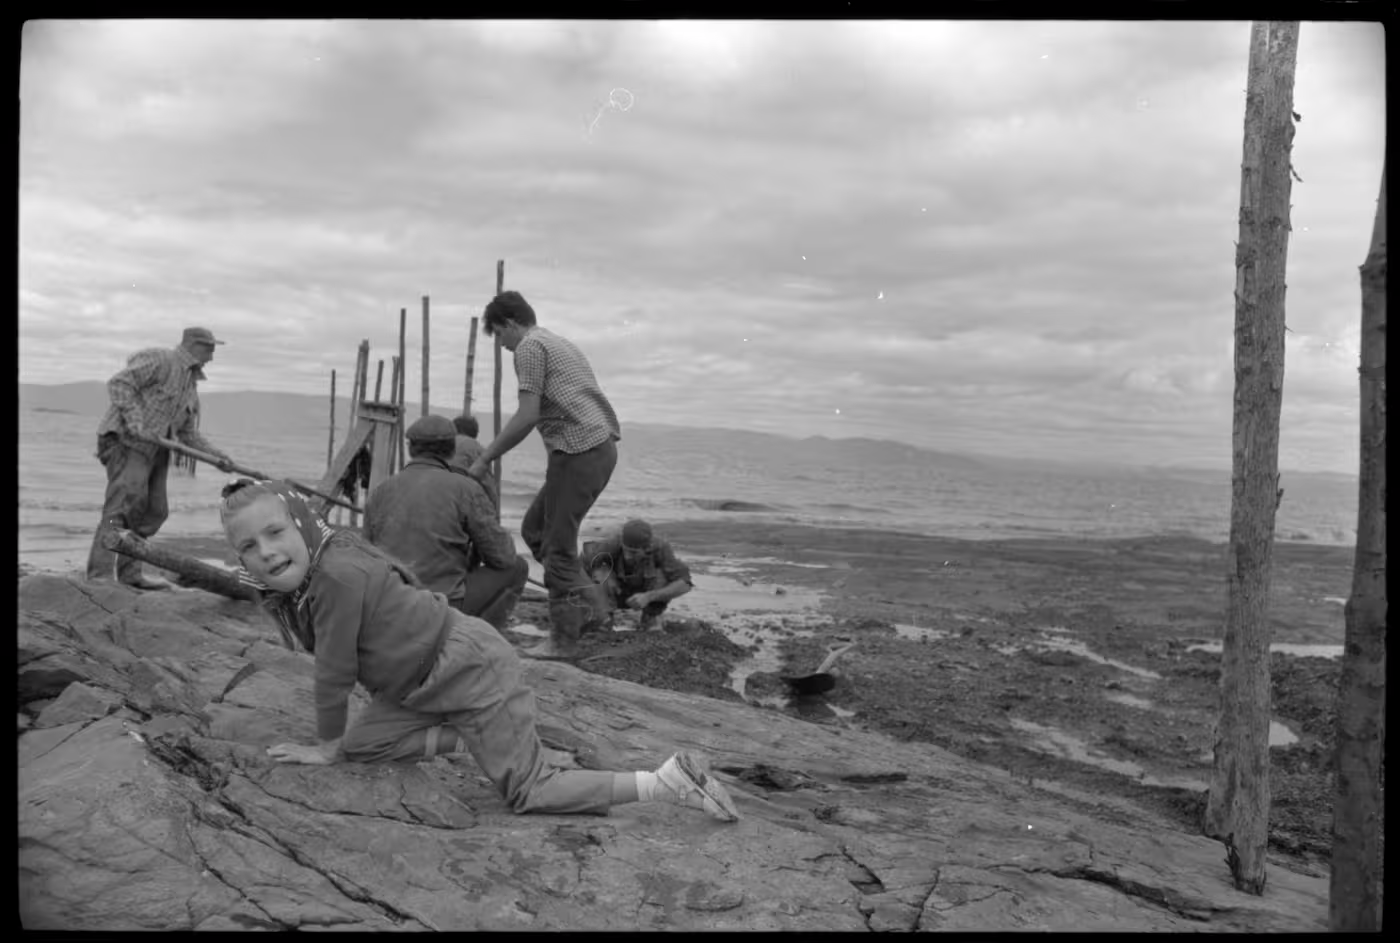
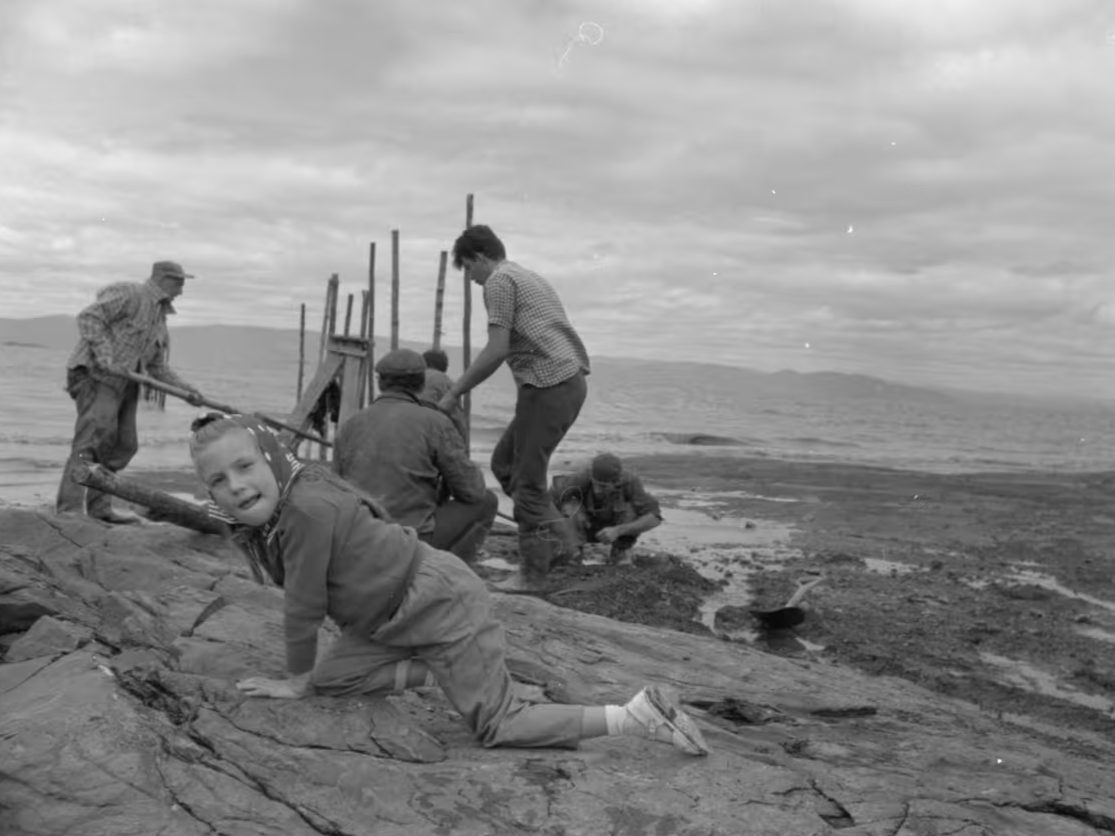
Nav et index ajusté

diff --git a/mini-jeu.html b/mini-jeu.html
@@ -1,99 +1,123 @@
 <!doctype html>
 <html lang="fr">
-	<head>
-		<meta charset="UTF-8" />
-		<meta name="viewport" content="width=device-width, initial-scale=1.0" />
-		<title>Plongée dans le Saint-Laurent - Musée des pêches et de la mer</title>
-		<link rel="stylesheet" href="style.css" />
-		<link rel="icon" type="image/png" href="./favicon3.png" />
-		<script src="./assets/scripts/script.js" defer></script>
-		<script src="./assets/scripts/minigame.js" defer></script>
-	</head>
+  <head>
+    <meta charset="UTF-8" />
+    <meta name="viewport" content="width=device-width, initial-scale=1.0" />
+    <title>Plongée dans le Saint-Laurent - Musée des pêches et de la mer</title>
+    <link rel="stylesheet" href="style.css" />
+    <link rel="icon" type="image/png" href="./favicon3.png" />
+    <script src="./assets/scripts/script.js" defer></script>
+    <script src="./assets/scripts/minigame.js" defer></script>
+  </head>
 
-	<body class="game-page">
-		<div class="drawer" id="drawer">
-			<a class="drawer-link" href="index.html " onclick="closeDrawer()"
-				>Accueil</a
-			>
-			<a class="drawer-link" href="reservation.html" onclick="closeDrawer()"
-				>Réservation</a
-			>
-			<a class="drawer-link" href="information.html" onclick="closeDrawer()"
-				>Information</a
-			>
-			<a class="drawer-link" href="mini-jeu.html" onclick="closeDrawer()"
-				>Jeu</a
-			>
-		</div>
+  <body class="game-page">
+    <div class="drawer" id="drawer">
+      <a class="drawer-link" href="index.html " onclick="closeDrawer()"
+        >Accueil</a
+      >
+      <a class="drawer-link" href="reservation.html" onclick="closeDrawer()"
+        >Réservation</a
+      >
+      <a class="drawer-link" href="information.html" onclick="closeDrawer()"
+        >Information</a
+      >
+      <a class="drawer-link" href="mini-jeu.html" onclick="closeDrawer()"
+        >Espace enfant</a
+      >
+    </div>
 
-		<nav class="site-nav" aria-label="Navigation principale">
-			<div>
-				<a href="index.html">
-					<img src="favicon.png" alt="Musée des pêches et de la mer, accueil" />
-				</a>
-			</div>
-			<div class="nav-links">
-				<a class="nav-link" href="index.html">Accueil</a>
-				<a class="nav-link" href="reservation.html">Réservation</a>
-				<a class="nav-link" href="information.html">Information</a>
-				<a class="nav-link" href="mini-jeu.html">Jeu</a>
-			</div>
-			<button
-				class="burger"
-				id="burger"
-				type="button"
-				aria-label="Ouvrir le menu"
-				aria-expanded="false"
-			>
-				<span></span><span></span><span></span>
-			</button>
-		</nav>
+    <nav class="site-nav" aria-label="Navigation principale">
+      <div>
+        <a href="index.html">
+          <img src="favicon.png" alt="Musée des pêches et de la mer, accueil" />
+        </a>
+      </div>
+      <div class="nav-links">
+        <a class="nav-link" href="index.html">Accueil</a>
+        <a class="nav-link" href="reservation.html">Réservation</a>
+        <a class="nav-link" href="information.html">Information</a>
+        <a class="nav-link" href="mini-jeu.html">Espace enfant</a>
+      </div>
+      <button
+        class="burger"
+        id="burger"
+        type="button"
+        aria-label="Ouvrir le menu"
+        aria-expanded="false"
+      >
+        <span></span><span></span><span></span>
+      </button>
+    </nav>
 
-		<header class="site-header dive-header">
-			<div class="dive-world">
-				<div class="dive-bubbles" id="diveBubbles" aria-hidden="true"></div>
-				<div class="dive-floor" aria-hidden="true"></div>
-				<div class="photo-frame" id="photoFrame" aria-hidden="true"></div>
-				<div class="dive-field" id="diveField" tabindex="-1">
-					<div class="diver" id="diver">
-						<img src="./assets/images/jeu/diver1.png" data-frame="0" alt="Plongeur" draggable="false" />
-					</div>
-				</div>
-				<div class="dive-controls" aria-label="Commandes de déplacement">
-					<button type="button" data-direction="up" aria-label="Haut">↑</button>
-					<div>
-						<button type="button" data-direction="left" aria-label="Gauche">←</button>
-						<button type="button" data-direction="down" aria-label="Bas">↓</button>
-						<button type="button" data-direction="right" aria-label="Droite">→</button>
-					</div>
-				</div>
-				<p class="photo-instruction">Espace pour prendre en photo</p>
-			</div>
-		</header>
+    <header class="site-header dive-header">
+      <div class="dive-world">
+        <div class="dive-bubbles" id="diveBubbles" aria-hidden="true"></div>
+        <div class="dive-floor" aria-hidden="true"></div>
+        <div class="photo-frame" id="photoFrame" aria-hidden="true"></div>
+        <div class="dive-field" id="diveField" tabindex="-1">
+          <div class="diver" id="diver">
+            <img
+              src="./assets/images/jeu/diver1.png"
+              data-frame="0"
+              alt="Plongeur"
+              draggable="false"
+            />
+          </div>
+        </div>
+        <div class="dive-controls" aria-label="Commandes de déplacement">
+          <button type="button" data-direction="up" aria-label="Haut">↑</button>
+          <div>
+            <button type="button" data-direction="left" aria-label="Gauche">
+              ←
+            </button>
+            <button type="button" data-direction="down" aria-label="Bas">
+              ↓
+            </button>
+            <button type="button" data-direction="right" aria-label="Droite">
+              →
+            </button>
+          </div>
+        </div>
+        <p class="photo-instruction">Espace pour prendre en photo</p>
+      </div>
+    </header>
 
-		<footer>
-			Musée de la pêche et de la mer, Contact info@museedespeches.ca | (418)
-			555-2025
-		</footer>
-		<div class="photo-flash" id="photoFlash" aria-hidden="true"></div>
-		<div class="photo-modal" id="photoModal" aria-hidden="true">
-			<div class="photo-modal-backdrop" data-photo-close></div>
-			<section class="photo-modal-panel" role="dialog" aria-modal="true" aria-labelledby="photoTitle" aria-describedby="photoDescription">
-				<div class="photo-modal-visual">
-					<img class="photo-modal-image" id="photoImage" alt="" />
-					<span class="photo-modal-location">GOLFE DU SAINT-LAURENT</span>
-				</div>
-				<div class="photo-modal-copy">
-					<header class="photo-modal-heading">
-						<div>
-							<p class="photo-modal-kicker">RENCONTRE MARINE</p>
-							<h2 id="photoTitle"></h2>
-						</div>
-						<button class="photo-modal-close" type="button" aria-label="Fermer la photo" data-photo-close>&times;</button>
-					</header>
-					<p class="photo-modal-description" id="photoDescription"></p>
-				</div>
-			</section>
-		</div>
-	</body>
+    <footer>
+      Musée de la pêche et de la mer, Contact info@museedespeches.ca | (418)
+      555-2025
+    </footer>
+    <div class="photo-flash" id="photoFlash" aria-hidden="true"></div>
+    <div class="photo-modal" id="photoModal" aria-hidden="true">
+      <div class="photo-modal-backdrop" data-photo-close></div>
+      <section
+        class="photo-modal-panel"
+        role="dialog"
+        aria-modal="true"
+        aria-labelledby="photoTitle"
+        aria-describedby="photoDescription"
+      >
+        <div class="photo-modal-visual">
+          <img class="photo-modal-image" id="photoImage" alt="" />
+          <span class="photo-modal-location">GOLFE DU SAINT-LAURENT</span>
+        </div>
+        <div class="photo-modal-copy">
+          <header class="photo-modal-heading">
+            <div>
+              <p class="photo-modal-kicker">RENCONTRE MARINE</p>
+              <h2 id="photoTitle"></h2>
+            </div>
+            <button
+              class="photo-modal-close"
+              type="button"
+              aria-label="Fermer la photo"
+              data-photo-close
+            >
+              &times;
+            </button>
+          </header>
+          <p class="photo-modal-description" id="photoDescription"></p>
+        </div>
+      </section>
+    </div>
+  </body>
 </html>

diff --git a/index.html b/index.html
@@ -21,7 +21,7 @@
         >Information</a
       >
       <a class="drawer-link" href="mini-jeu.html" onclick="closeDrawer()"
-        >Jeu</a
+        >Espace enfant</a
       >
     </div>
 
@@ -78,6 +78,40 @@
           climatiques sur le golfe du Saint-Laurent.
         </p>
         <a class="cta" href="reservation.html">Planifier votre visite</a>
+      </section>
+
+      <section id="evenements">
+        <p class="contour"></p>
+        <h2>Événements</h2>
+        <div class="events">
+          <article class="event">
+            <img
+              src="./assets/images-client/nuit-des-pecheurs.jpg"
+              alt="Quai éclairé la nuit"
+              loading="lazy"
+              decoding="async"
+            />
+            <h3>Nuit des pêcheurs</h3>
+            <p>
+              Chaque été, une soirée unique avec contes traditionnels,
+              dégustations de produits de la mer et animations sur le quai.
+            </p>
+          </article>
+          <article class="event">
+            <img
+              src="./assets/images-client/festival-des-oceans.jpg"
+              alt="Foule au Festival des océans"
+              loading="lazy"
+              decoding="async"
+            />
+            <h3>Festival des océans</h3>
+            <p>
+              Un week-end festif réunissant conférences, films documentaires,
+              animations pour enfants et dégustations, célébrant le patrimoine
+              maritime gaspésien.
+            </p>
+          </article>
+        </div>
       </section>
 
       <section id="expositions">
@@ -144,40 +178,6 @@
             <a class="more" href="#" data-expo="tresors">En savoir plus</a>
           </div>
         </article>
-      </section>
-
-      <section id="evenements">
-        <p class="contour"></p>
-        <h2>Événements</h2>
-        <div class="events">
-          <article class="event">
-            <img
-              src="./assets/images-client/nuit-des-pecheurs.jpg"
-              alt="Quai éclairé la nuit"
-              loading="lazy"
-              decoding="async"
-            />
-            <h3>Nuit des pêcheurs</h3>
-            <p>
-              Chaque été, une soirée unique avec contes traditionnels,
-              dégustations de produits de la mer et animations sur le quai.
-            </p>
-          </article>
-          <article class="event">
-            <img
-              src="./assets/images-client/festival-des-oceans.jpg"
-              alt="Foule au Festival des océans"
-              loading="lazy"
-              decoding="async"
-            />
-            <h3>Festival des océans</h3>
-            <p>
-              Un week-end festif réunissant conférences, films documentaires,
-              animations pour enfants et dégustations, célébrant le patrimoine
-              maritime gaspésien.
-            </p>
-          </article>
-        </div>
       </section>
 
       <section class="closing">

diff --git a/information.html b/information.html
@@ -21,7 +21,7 @@
         >Information</a
       >
       <a class="drawer-link" href="mini-jeu.html" onclick="closeDrawer()"
-        >Jeu</a
+        >Espace enfant</a
       >
     </div>
 
@@ -35,7 +35,7 @@
         <a class="nav-link" href="index.html">Accueil</a>
         <a class="nav-link" href="reservation.html">Réservation</a>
         <a class="nav-link" href="information.html">Information</a>
-        <a class="nav-link" href="mini-jeu.html">Jeu</a>
+        <a class="nav-link" href="mini-jeu.html">Espace enfant</a>
       </div>
       <button
         class="burger"

diff --git a/reservation.html b/reservation.html
@@ -22,7 +22,7 @@
         >Information</a
       >
       <a class="drawer-link" href="mini-jeu.html" onclick="closeDrawer()"
-        >Jeu</a
+        >Espace enfant</a
       >
     </div>
 
@@ -36,7 +36,7 @@
         <a class="nav-link" href="index.html">Accueil</a>
         <a class="nav-link" href="reservation.html">Réservation</a>
         <a class="nav-link" href="information.html">Information</a>
-        <a class="nav-link" href="mini-jeu.html">Jeu</a>
+        <a class="nav-link" href="mini-jeu.html">Espace enfant</a>
       </div>
       <button
         class="burger"

diff --git a/assets/styles/style.css b/assets/styles/style.css
@@ -2489,7 +2489,7 @@ h2.tarifs-title {
 .events {
   display: grid;
   grid-template-columns: repeat(auto-fit, minmax(min(100%, 20rem), 1fr));
-  gap: clamp(1.5rem, 4vw, 3rem);
+  gap: clamp(3rem, 8vw, 6rem);
   margin-top: 2.5rem;
 }
 .event img {
